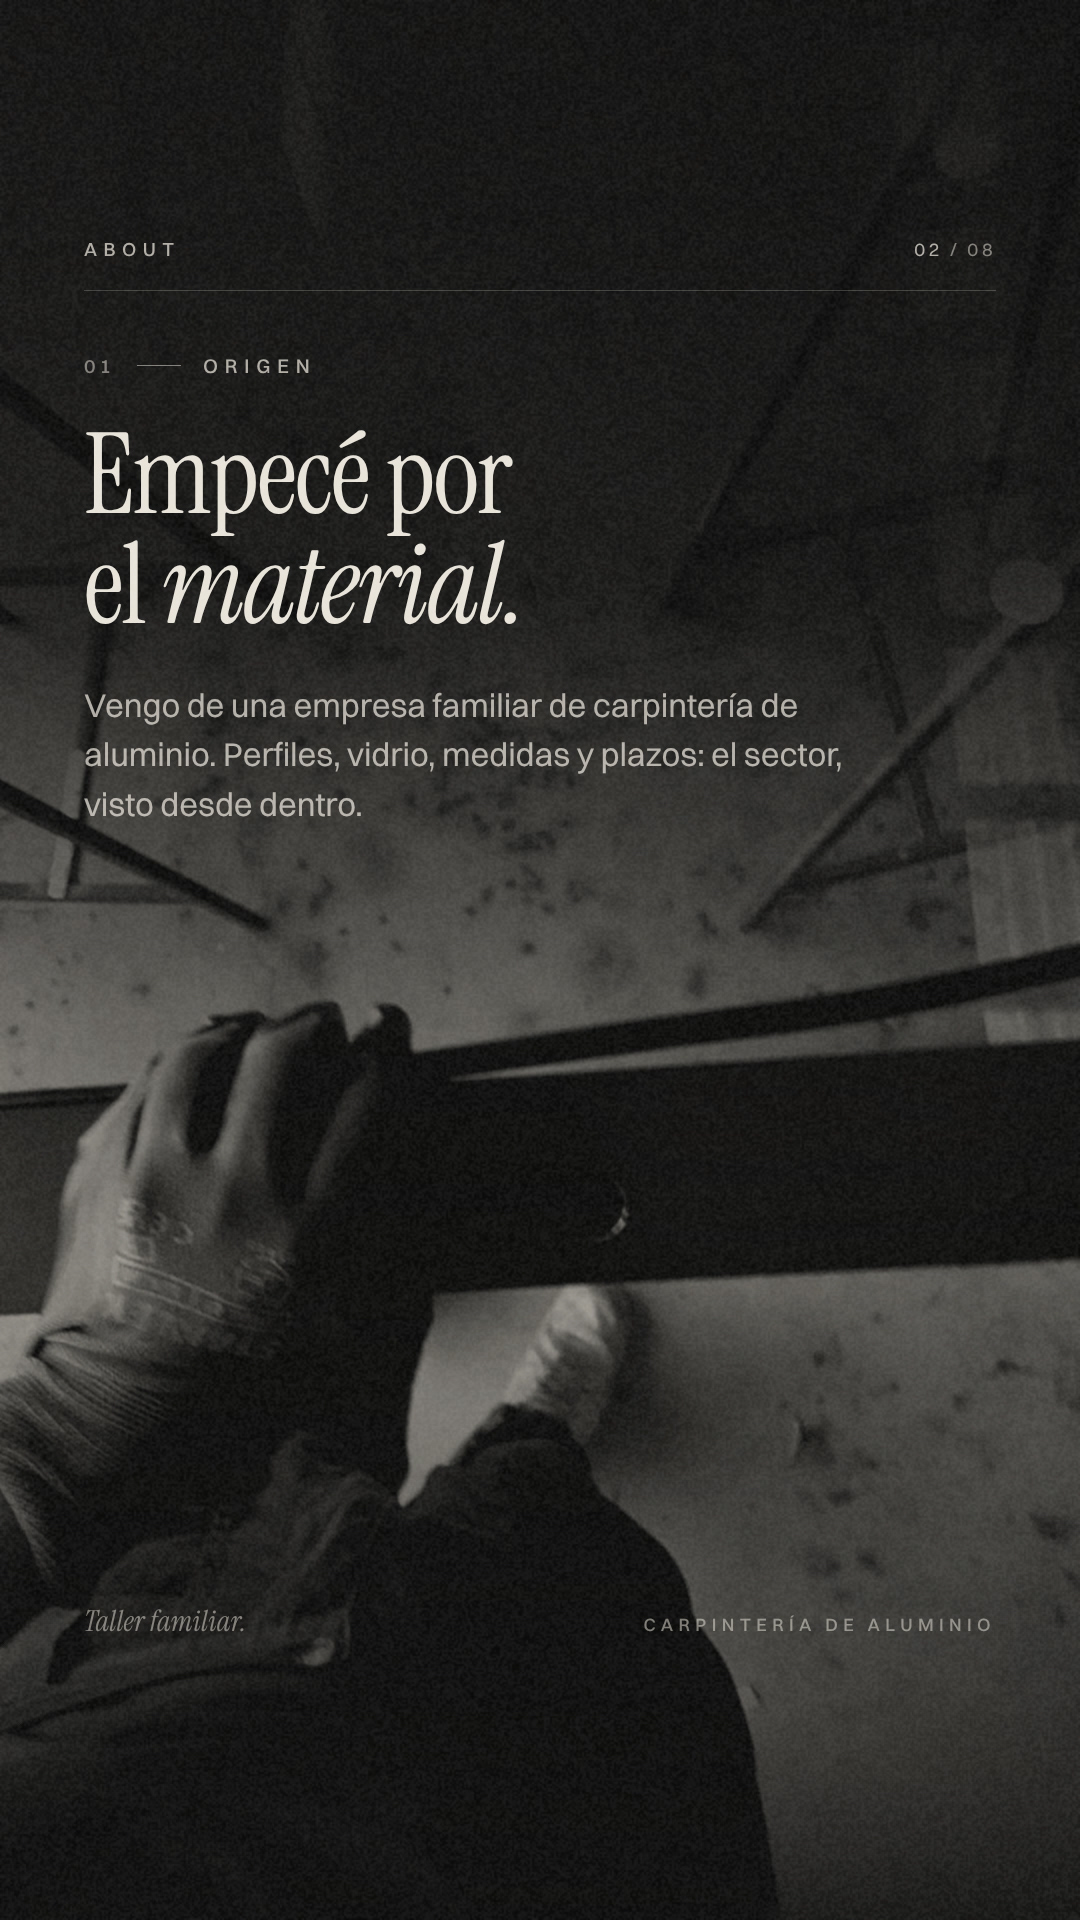
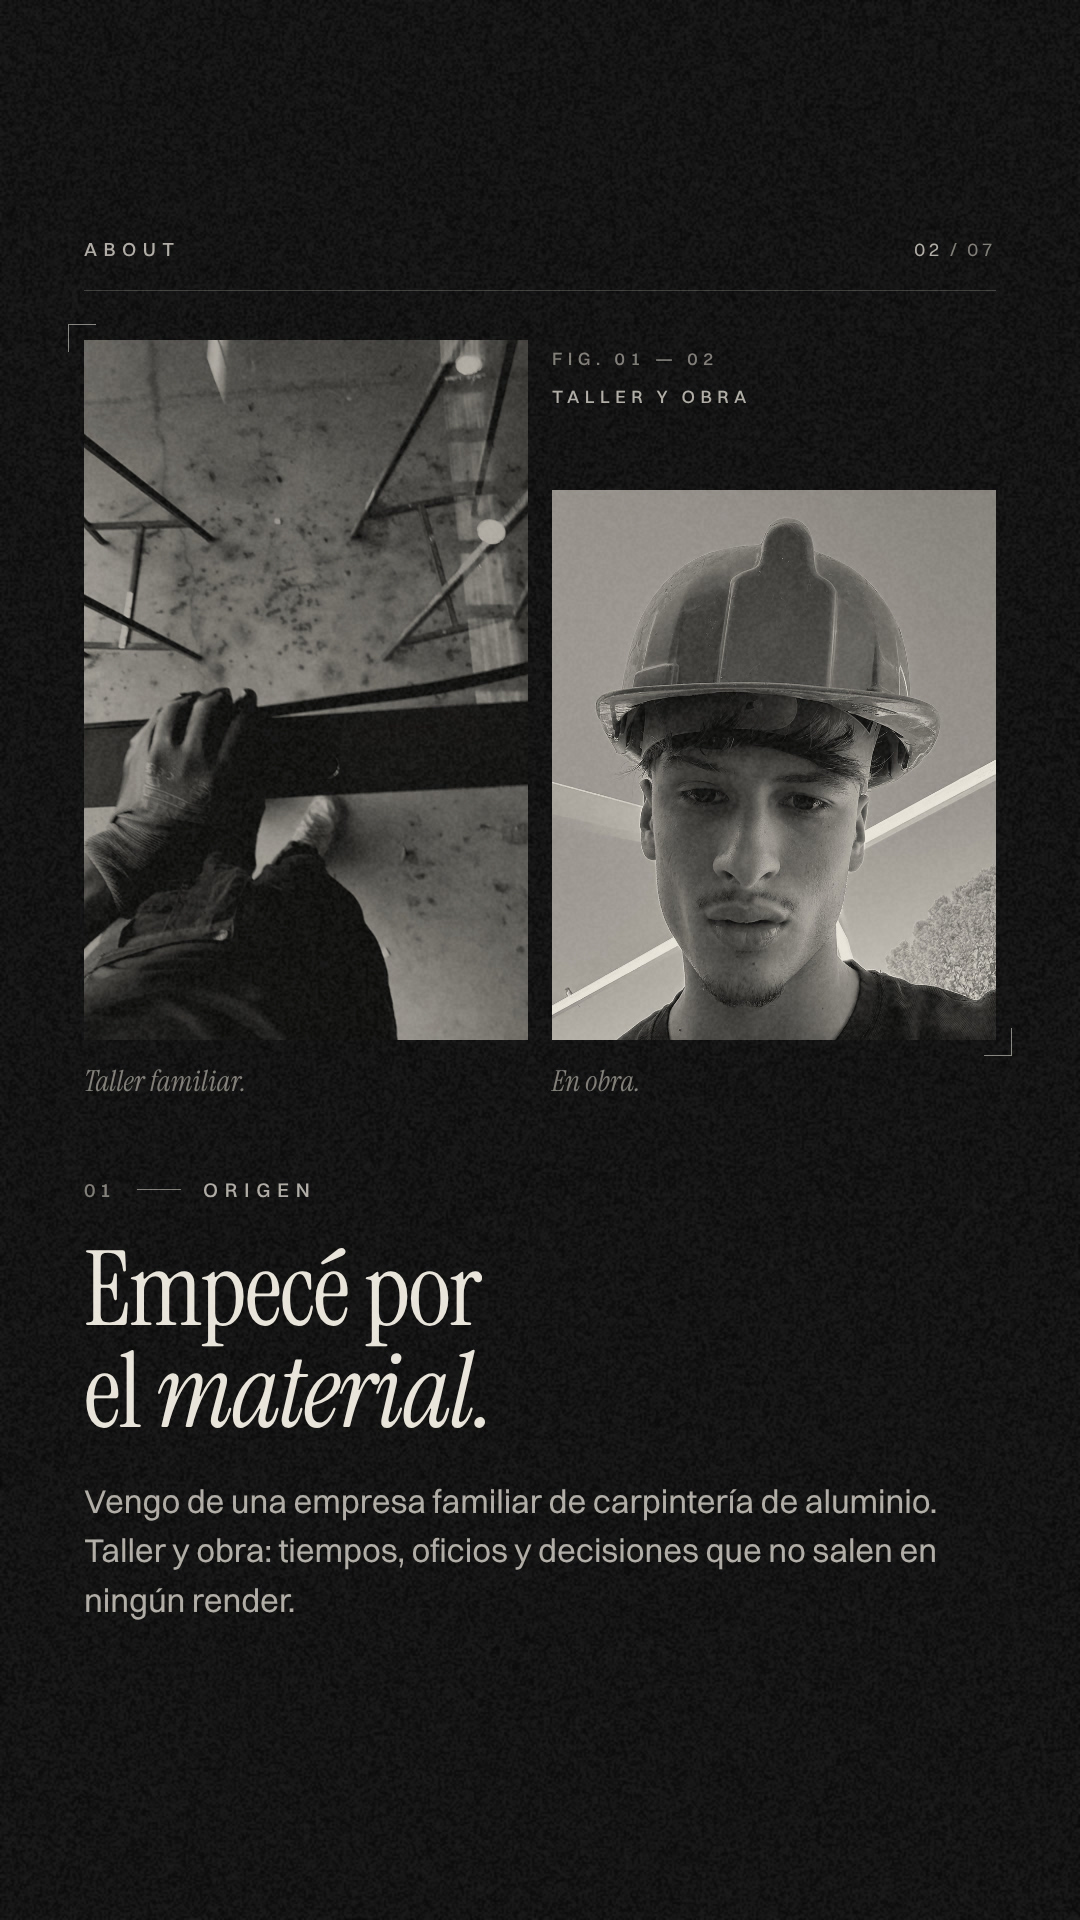
Destacada About: origen y obra en una sola historia (díptico), 7 historias
La historia de Prospectus se rehace con capturas de Villa Aurea.

Claude-Session: https://claude.ai/code/session_01VN9W9V3dJNU1m3TSVrd58K

diff --git a/highlight-about/_source/story.html b/highlight-about/_source/story.html
@@ -71,9 +71,9 @@ body { font-family: "Sans", sans-serif; color: var(--bone); -webkit-font-smoothi
 
 <script>
 /* ═════════════════════════════════════════════════════════════
-   CONTENIDO — 8 historias. data-a = tipo de animación, data-d = retardo (s)
+   CONTENIDO — 7 historias. data-a = tipo de animación, data-d = retardo (s)
    ═════════════════════════════════════════════════════════════ */
-const TOTAL = 8;
+const TOTAL = 7;
 const L = (txt, d) => `<span class="ln" data-a="mask" data-d="${d}"><span>${txt}</span></span>`;
 const LBL = (num, txt, d) => `<div class="label" data-a="fade" data-d="${d}"><b>${num}</b><span class="dash"></span>${txt}</div>`;
 
@@ -98,52 +98,37 @@ const STORIES = {
       </div>`
   },
 
-  /* 02 — ORIGEN */
+  /* 02 — ORIGEN: díptico taller + obra */
   2: {
-    dur: 7, bg: "img/workshop.jpg", kb: [1.12, 1.03], pan: [0, 14],
-    shade: `linear-gradient(180deg, rgba(9,9,8,.93) 0%, rgba(9,9,8,.86) 30%, rgba(9,9,8,.35) 52%, rgba(9,9,8,.05) 66%, rgba(9,9,8,.55) 88%, rgba(9,9,8,.9) 100%)`,
-    html: `
-      <div class="blk" style="top: 352px">
-        ${LBL("01", "Origen", .45)}
-        <h2 class="h" style="margin-top: 42px">${L("Empecé por", .7)}${L("el <em>material.</em>", .85)}</h2>
-        <p class="body" data-a="fade" data-d="1.5" style="margin-top: 40px; max-width: 800px">
-          Vengo de una empresa familiar de carpintería de aluminio. Perfiles, vidrio, medidas y plazos: el sector, visto desde dentro.
-        </p>
-      </div>
-      <div class="blk" style="bottom: 280px; display: flex; justify-content: space-between; align-items: baseline">
-        <span class="cap" data-a="fade" data-d="2.2">Taller familiar.</span>
-        <span class="meta" data-a="fade" data-d="2.35">Carpintería de aluminio</span>
-      </div>`
-  },
-
-  /* 03 — OBRA */
-  3: {
     dur: 7, bg: null,
     html: `
-      <div style="position: absolute; left: var(--m); top: 330px; width: 640px; height: 800px; overflow: hidden" data-a="reveal" data-d=".35">
-        <div data-kb="1.14,1.03" style="position: absolute; inset: 0; background: url(img/hardhat.jpg) center 40%/cover"></div>
+      <div style="position: absolute; left: var(--m); top: 340px; width: 444px; height: 700px; overflow: hidden" data-a="reveal" data-d=".3">
+        <div data-kb="1.12,1.03" style="position: absolute; inset: 0; background: url(img/workshop.jpg) center 64%/cover"></div>
       </div>
-      <div class="tick" style="left: calc(var(--m) - 16px); top: 314px; border-left-width: 1px; border-top-width: 1px" data-a="fade" data-d=".2"></div>
-      <div class="tick" style="left: calc(var(--m) + 628px); top: 1118px; border-right-width: 1px; border-bottom-width: 1px" data-a="fade" data-d=".2"></div>
-      <div style="position: absolute; left: 760px; top: 330px; right: var(--m)">
-        <div class="meta" data-a="fade" data-d="1.0" style="line-height: 2.1">Fig. 02<br><span style="color: var(--bone-2)">En obra</span></div>
+      <div style="position: absolute; left: 552px; top: 490px; width: 444px; height: 550px; overflow: hidden" data-a="reveal" data-d=".5">
+        <div data-kb="1.12,1.03" style="position: absolute; inset: 0; background: url(img/hardhat.jpg) center 40%/cover"></div>
       </div>
-      <div class="blk" style="top: 1192px">
-        ${LBL("02", "Obra", .9)}
-        <h2 class="h" style="margin-top: 36px; font-size: 98px">${L("Antes de hablar del", 1.1)}${L("sector, lo <em>trabajé.</em>", 1.25)}</h2>
-        <p class="body" data-a="fade" data-d="1.85" style="margin-top: 34px; max-width: 870px">
-          Ahí aprendí cómo se levanta un proyecto real: tiempos, oficios y decisiones que no salen en ningún render.
+      <div class="tick" style="left: calc(var(--m) - 16px); top: 324px; border-left-width: 1px; border-top-width: 1px" data-a="fade" data-d=".2"></div>
+      <div class="tick" style="left: 984px; top: 1028px; border-right-width: 1px; border-bottom-width: 1px" data-a="fade" data-d=".2"></div>
+      <div class="meta" data-a="fade" data-d="1.0" style="position: absolute; left: 552px; top: 340px; line-height: 2.1">Fig. 01 — 02<br><span style="color: var(--bone-2)">Taller y obra</span></div>
+      <span class="cap" data-a="fade" data-d="1.2" style="position: absolute; left: var(--m); top: 1062px">Taller familiar.</span>
+      <span class="cap" data-a="fade" data-d="1.3" style="position: absolute; left: 552px; top: 1062px">En obra.</span>
+      <div class="blk" style="top: 1176px">
+        ${LBL("01", "Origen", .8)}
+        <h2 class="h" style="margin-top: 36px; font-size: 104px">${L("Empecé por", 1.0)}${L("el <em>material.</em>", 1.12)}</h2>
+        <p class="body" data-a="fade" data-d="1.7" style="margin-top: 34px; max-width: 890px">
+          Vengo de una empresa familiar de carpintería de aluminio. Taller y obra: tiempos, oficios y decisiones que no salen en ningún render.
         </p>
       </div>`
   },
 
-  /* 04 — LO QUE VI */
-  4: {
+  /* 03 — LO QUE VI */
+  3: {
     dur: 8, bg: "img/galleria.jpg", kb: [1.04, 1.13], pan: [0, -20],
     shade: `linear-gradient(180deg, rgba(9,9,8,.94) 0%, rgba(9,9,8,.7) 13%, rgba(9,9,8,.08) 26%, rgba(9,9,8,.15) 36%, rgba(9,9,8,.78) 50%, rgba(9,9,8,.95) 66%, #090908 100%)`,
     html: `
       <div class="blk" style="top: 936px">
-        ${LBL("03", "Lo que vi", .45)}
+        ${LBL("02", "Lo que vi", .45)}
         <h2 class="h" style="margin-top: 38px; font-size: 92px; line-height: 1.0">
           ${L("Una promoción tarda", .7)}${L("años en construirse.", .82)}
           <span style="display:block; height: 26px"></span>
@@ -158,12 +143,12 @@ const STORIES = {
       </div>`
   },
 
-  /* 05 — PROSPECTUS */
-  5: {
+  /* 04 — PROSPECTUS */
+  4: {
     dur: 9, bg: null, model: true,
     html: `
       <div class="blk" style="top: 1112px">
-        ${LBL("04", "Hoy", 2.6)}
+        ${LBL("03", "Hoy", 2.6)}
         <h2 class="h" style="margin-top: 36px; font-size: 104px">${L("Cofundador de", 2.85)}${L("<em>Prospectus.</em>", 3.0)}</h2>
         <p class="body" data-a="fade" data-d="3.6" style="margin-top: 36px; max-width: 880px">
           Experiencias interactivas en 3D para comercializar promociones: que el comprador recorra su casa <strong>antes de que exista.</strong>
@@ -171,13 +156,13 @@ const STORIES = {
       </div>`
   },
 
-  /* 06 — ENFOQUE */
-  6: {
+  /* 05 — ENFOQUE */
+  5: {
     dur: 8, bg: "img/window.jpg", kb: [1.11, 1.03], pan: [10, 0],
     shade: `linear-gradient(180deg, rgba(9,9,8,.88) 0%, rgba(9,9,8,.55) 13%, rgba(9,9,8,.05) 24%, rgba(9,9,8,.12) 32%, rgba(9,9,8,.82) 46%, rgba(9,9,8,.97) 60%, #090908 100%)`,
     html: `
       <div class="blk" style="top: 852px">
-        ${LBL("05", "Enfoque", .45)}
+        ${LBL("04", "Enfoque", .45)}
         <h2 class="h" style="margin-top: 36px; font-size: 96px; line-height: 1.0">
           ${L("Primero, entender", .7)}${L("el negocio.", .82)}${L("Después, <em>proponer.</em>", .94)}
         </h2>
@@ -190,13 +175,13 @@ const STORIES = {
       </div>`
   },
 
-  /* 07 — HACIA DÓNDE */
-  7: {
+  /* 06 — HACIA DÓNDE */
+  6: {
     dur: 8, bg: "img/duomo.jpg", kb: [1.03, 1.12], pan: [0, 16],
     shade: `linear-gradient(180deg, rgba(9,9,8,.8) 0%, rgba(9,9,8,.2) 16%, rgba(9,9,8,.12) 34%, rgba(9,9,8,.8) 50%, rgba(9,9,8,.96) 64%, #090908 100%)`,
     html: `
       <div class="blk" style="top: 936px">
-        ${LBL("06", "Hacia dónde", .45)}
+        ${LBL("05", "Hacia dónde", .45)}
         <h2 class="h" style="margin-top: 38px; font-size: 98px; line-height: 1.0">
           ${L("Ayudar a vender", .7)}${L("mejor lo que se", .82)}${L("<em>construye.</em>", .94)}
         </h2>
@@ -209,13 +194,13 @@ const STORIES = {
       </div>`
   },
 
-  /* 08 — HABLEMOS */
-  8: {
+  /* 07 — HABLEMOS */
+  7: {
     dur: 9, bg: "img/night.jpg", kb: [1.10, 1.03], pan: [0, 40], offY: 300, bgOpacity: .95,
     shade: `linear-gradient(180deg, #090908 0%, rgba(9,9,8,.92) 30%, rgba(9,9,8,.3) 44%, rgba(9,9,8,.08) 52%, rgba(9,9,8,.75) 63%, rgba(9,9,8,.97) 72%, #090908 100%)`,
     html: `
       <div class="blk" style="top: 340px">
-        ${LBL("07", "Contacto", .45)}
+        ${LBL("06", "Contacto", .45)}
         <h2 class="h" style="margin-top: 30px; font-size: 196px; line-height: .95; letter-spacing: -.03em">${L("<em>Hablemos.</em>", .7)}</h2>
         <p class="body" data-a="fade" data-d="1.4" style="margin-top: 30px; max-width: 820px">
           Si promueves, construyes o comercializas vivienda, me encantará conocer tu proyecto.

diff --git a/highlight-about/_source/render.js b/highlight-about/_source/render.js
@@ -15,14 +15,14 @@ const TMP = process.env.TMPDIR_RENDER || path.join(__dirname, ".tmp");
 fs.mkdirSync(TMP, { recursive: true });
 
 const NAMES = {
-  1: "portada", 2: "origen", 3: "obra", 4: "lo-que-vi",
-  5: "prospectus", 6: "enfoque", 7: "hacia-donde", 8: "hablemos",
+  1: "portada", 2: "origen", 3: "lo-que-vi", 4: "prospectus",
+  5: "enfoque", 6: "hacia-donde", 7: "hablemos",
 };
 
 (async () => {
   const browser = await chromium.launch();
   const page = await browser.newPage({ viewport: { width: 1080, height: 1920 }, deviceScaleFactor: 1 });
-  const list = ONLY.length ? ONLY : [1, 2, 3, 4, 5, 6, 7, 8];
+  const list = ONLY.length ? ONLY : [1, 2, 3, 4, 5, 6, 7];
   for (const n of list) {
     const base = `${String(n).padStart(2, "0")}-${NAMES[n]}`;
     await page.goto("file://" + path.join(__dirname, "story.html") + "?n=" + n);

diff --git a/highlight-about/_source/grade.py b/highlight-about/_source/grade.py
@@ -74,7 +74,7 @@ for name, (fn, x0, exp, con, gam) in PHOTOS.items():
     img = ImageOps.exif_transpose(Image.open(SRC / fn)).convert("RGB")
     if x0 == "portrait":
         # retrato en obra: encuadre 4:5 sobre cara y casco
-        img = img.crop((110, 160, 1390, 1760))
+        img = img.crop((110, 190, 1830, 2340))
     else:
         img = crop_916(img, x0)
     gray = ImageOps.grayscale(img)

diff --git a/highlight-about/README.md b/highlight-about/README.md
@@ -1,6 +1,6 @@
 # Destacada «About» — Aleix Jiménez
 
-Ocho historias estáticas de 1080 × 1920 (JPG, máxima calidad), más la portada de la destacada.
+Siete historias estáticas de 1080 × 1920 (JPG, máxima calidad), más la portada de la destacada.
 
 ## Orden de publicación
 
@@ -8,19 +8,18 @@ Ocho historias estáticas de 1080 × 1920 (JPG, máxima calidad), más la portad
 |---|---|---|
 | 00 | `00-portada-destacada.jpg` | Icono circular de la destacada |
 | 01 | `01-portada.jpg` | Quién soy: del taller familiar a la comercialización inmobiliaria |
-| 02 | `02-origen.jpg` | Empresa familiar de carpintería de aluminio |
-| 03 | `03-obra.jpg` | Experiencia real en taller y obra |
-| 04 | `04-lo-que-vi.jpg` | La oportunidad: el producto evoluciona, la forma de venderlo no tanto |
-| 05 | `05-prospectus.jpg` | Hoy: cofundador de Prospectus |
-| 06 | `06-enfoque.jpg` | Qué hago y para quién |
-| 07 | `07-hacia-donde.jpg` | Visión y ambición, sin aparentar una trayectoria que aún no existe |
-| 08 | `08-hablemos.jpg` | Contacto |
+| 02 | `02-origen.jpg` | Taller y obra: la empresa familiar de carpintería de aluminio |
+| 03 | `03-lo-que-vi.jpg` | La oportunidad: el producto evoluciona, la forma de venderlo no tanto |
+| 04 | `04-prospectus.jpg` | Hoy: cofundador de Prospectus, con Villa Aurea como caso real |
+| 05 | `05-enfoque.jpg` | Qué hago y para quién |
+| 06 | `06-hacia-donde.jpg` | Visión y ambición, sin aparentar una trayectoria que aún no existe |
+| 07 | `07-hablemos.jpg` | Contacto |
 
 ## Al publicar
 
-1. Sube las historias **en orden, de la 01 a la 08**, y añádelas a una destacada nueva llamada **About**.
+1. Sube las historias **en orden, de la 01 a la 07**, y añádelas a una destacada nueva llamada **About**.
 2. Como portada de la destacada, elige `00-portada-destacada.jpg` y céntrala en el círculo.
-3. **Historia 08**: añade un sticker de enlace (WhatsApp `https://wa.me/34633716169` o tu web)
+3. **Historia 07**: añade un sticker de enlace (WhatsApp `https://wa.me/34633716169` o tu web)
    y colócalo justo debajo de la lista de contactos, sobre el negro. Sin más stickers: el diseño ya respira.
 4. Sin música de tendencia ni GIFs: el silencio forma parte de la estética.
 5. Las zonas superior (≈ 230 px) e inferior (≈ 260 px) se dejaron libres para la interfaz de Instagram.
@@ -33,7 +32,7 @@ Ocho historias estáticas de 1080 × 1920 (JPG, máxima calidad), más la portad
   pasan por el mismo etalonaje (`_source/grade.py`).
 - **Textura**: grano de película sutil y viñeteado en todas las piezas.
 - **Hilo narrativo**: vidrio y metal. Perfil de aluminio en el taller → cúpula de vidrio de la Galleria →
-  edificio en 3D.
+  Villa Aurea en 3D.
 
 ## Regenerar o editar
 
@@ -43,7 +42,7 @@ Los textos están en `_source/story.html` (objeto `STORIES`). Tras editarlos:
 cd highlight-about/_source
 python3 grade.py <carpeta-con-fotos-originales> img   # solo si cambian las fotos
 node render.js stills          # todas las historias
-node render.js stills 5        # solo una
+node render.js stills 4        # solo una
 ```
 
 Requiere Node con Playwright (Chromium) y ffmpeg.
